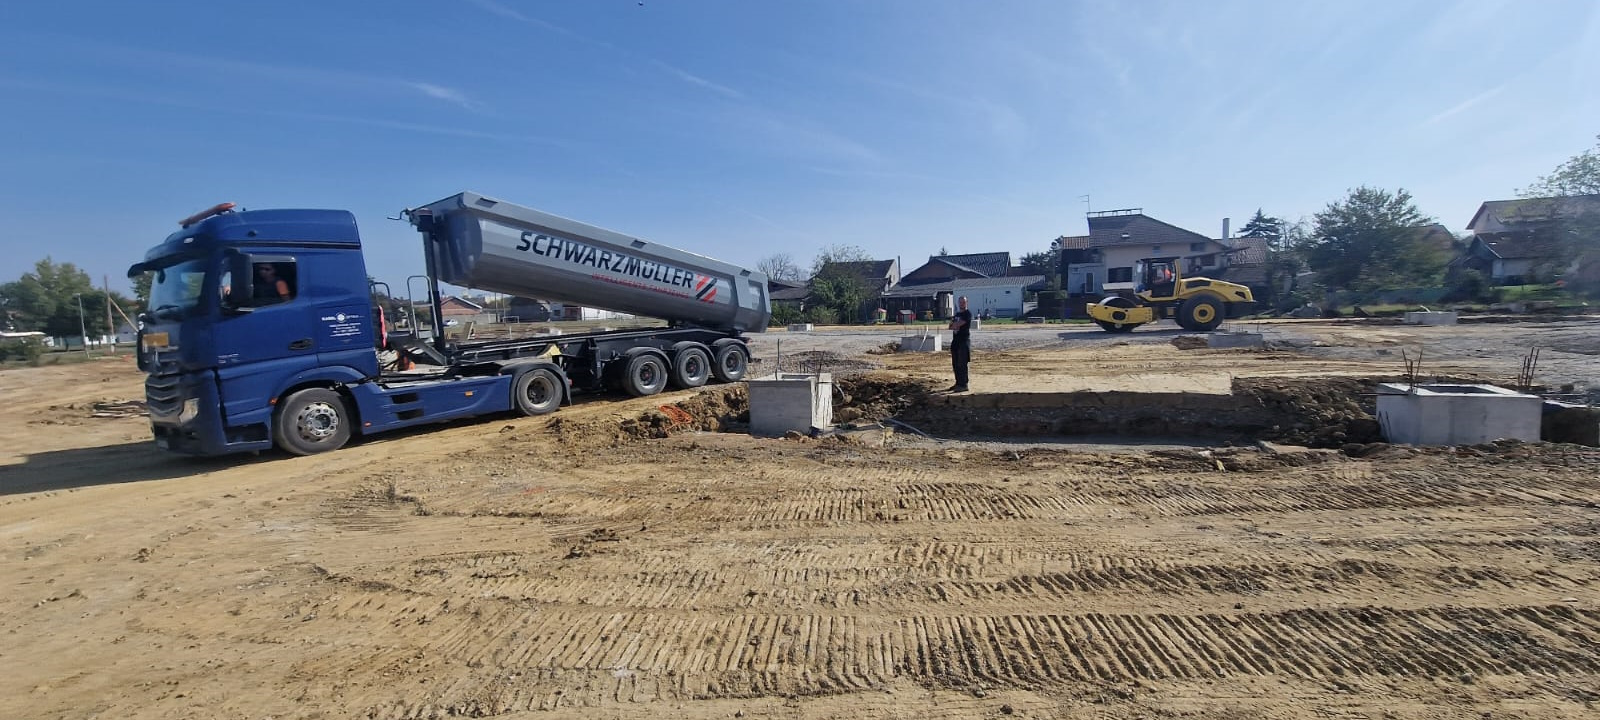
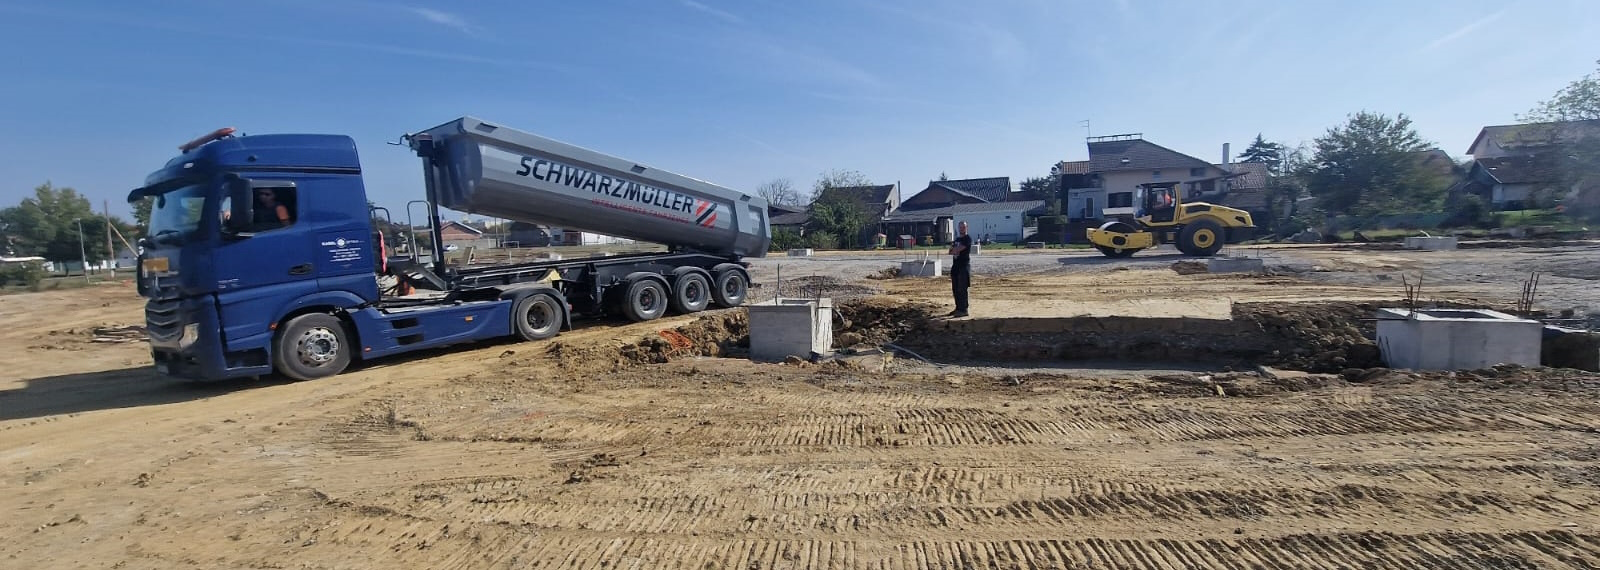
sve naslovne slike postavljene

diff --git a/src/components/ProjectsComponent.js b/src/components/ProjectsComponent.js
@@ -13,10 +13,6 @@ const ProjectsComponent = () => {
         <h2>Kod projekta: KK.08.2.1.16.0148</h2>
         <h2>Naziv poziva: Podrška razvoju poduzetništva u gradu Petrinji</h2>
         <div className="container">
-<<<<<<< HEAD
-=======
-            {/* <img src={Petrinja} alt="Slika Petrinje." style={{ width: '100%', height: 'auto' }} /> */}
->>>>>>> 6351b05bcc20b50404de231012ebc59d594e165a
             <p>Cilj ovog projekta je održiva fizička, socijalna i gospodarska regeneracija grada Petrinje, s ciljem smanjenja socijalnih nejednakosti, isključenosti i siromaštva. 
                     Nabavom novih roba i/ili usluga, Prijavitelj će povećati svoju: konkurentnost i održivost poslovanja i proizvodne kapacitete. Prijavitelj će otvoriti nova tržišta i povećat će mu se prihod. 
                     Projekt je usmjeren na djelatnike Prijavitelja, kupce i dobavljače kao ciljne skupine projekta, ali i sve građane Republike Hrvatske i to upravo kroz očuvanje postojećih radnih mjesta i otvaranje novih. 

diff --git a/src/components/HomeComponent.js b/src/components/HomeComponent.js
@@ -1,11 +1,7 @@
 import React, { useState, useEffect } from 'react';
 import '../App.css';
 import EUnoteSite from './EUnoteSite';
-<<<<<<< HEAD
 import slika from '../assets/1.jpg';
-=======
-// import slika from '../assets/8.jpg';
->>>>>>> 6351b05bcc20b50404de231012ebc59d594e165a
 
 const HomeComponent = () => {
     const [animate, setAnimate] = useState(false);
@@ -16,11 +12,7 @@ const HomeComponent = () => {
 
     return (
     <div className="main_content">
-<<<<<<< HEAD
         <img src={slika} alt="Slika građevinskih radova." style={{ width: '100%', height: 'auto' }} />
-=======
-        {/* <img src={slika} alt="Slika građevinskih radova." style={{ width: '100%', height: 'auto' }} /> */}
->>>>>>> 6351b05bcc20b50404de231012ebc59d594e165a
         <EUnoteSite/>
         <h1>Dobrodošli!</h1>
         <div className="container">

diff --git a/src/components/AboutComponent.js b/src/components/AboutComponent.js
@@ -1,6 +1,6 @@
 import React, {useState, useEffect } from 'react';
 import '../App.css';
-// import slika from '../assets/8b.jpg';
+import slika from '../assets/3.jpg';
 
 const AboutComponent = () => {
     const [animate, setAnimate] = useState(false);
@@ -11,7 +11,7 @@ const AboutComponent = () => {
 
     return (
         <div className="main_content">
-                {/* <img src={slika} alt="Slika građevinskih radova." style={{ width: '100%', height: 'auto' }} /> */}
+                <img src={slika} alt="Slika građevinskih radova." style={{ width: '100%', height: 'auto' }} />
                 <h1>O nama</h1>
                 <div className="container">
                     <div className={`box left ${animate ? 'enter' : 'left-enter'}`}>

diff --git a/src/components/ContactComponent.js b/src/components/ContactComponent.js
@@ -1,6 +1,7 @@
 import React, {useState, useEffect, useRef } from "react";
 import emailjs from '@emailjs/browser';
 import '../App.css';
+import slika from '../assets/13.jpg';
 
 const ContactComponent = () => {
     const form = useRef();
@@ -29,6 +30,7 @@ const ContactComponent = () => {
 
 	return (
     <div className="main_content">
+        <img src={slika} alt="Slika građevinskih radova." style={{ width: '100%', height: 'auto' }} />
         <h1>Kontakt</h1>
         <div className="container">
             <div className={`box left ${animate ? 'enter' : 'left-enter'}`}>

diff --git a/src/components/InformationComponent.js b/src/components/InformationComponent.js
@@ -1,5 +1,6 @@
 import React, { useState, useEffect } from 'react';
 import '../App.css';
+import slika from '../assets/4.jpg';
 
 const InformationComponent = () => {
     const [animate, setAnimate] = useState(false);
@@ -10,6 +11,7 @@ const InformationComponent = () => {
 
     return (
     <div className="main_content">
+        <img src={slika} alt="Slika građevinskih radova." style={{ width: '100%', height: 'auto' }} />
         <h1>Osnovni podatci</h1>
         <div className="container">
             <div className={`box left ${animate ? 'enter' : 'left-enter'}`}>

diff --git a/src/App.css b/src/App.css
@@ -140,19 +140,11 @@ body {
   flex-wrap: wrap;
   justify-content: center;
   align-items: center;
-<<<<<<< HEAD
   padding: 10px;
   margin-bottom: 10px;
   margin-left: 60px;
   margin-right: 60px;
   margin-top: 10px;
-=======
-  padding: 20px;
-  margin-top: 10px;
-  margin-bottom: 25px;
-  margin-left: 25px;
-  margin-right: 25px;
->>>>>>> 6351b05bcc20b50404de231012ebc59d594e165a
   border: 1px solid #ccc;
 }
 
